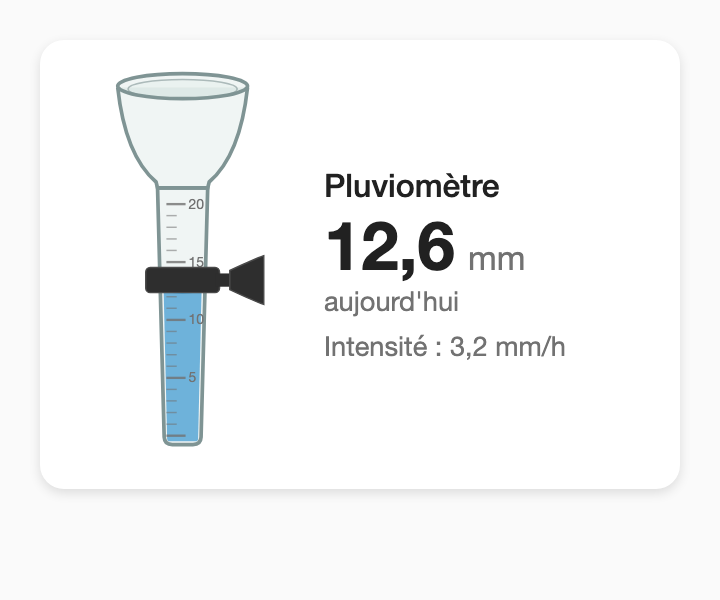
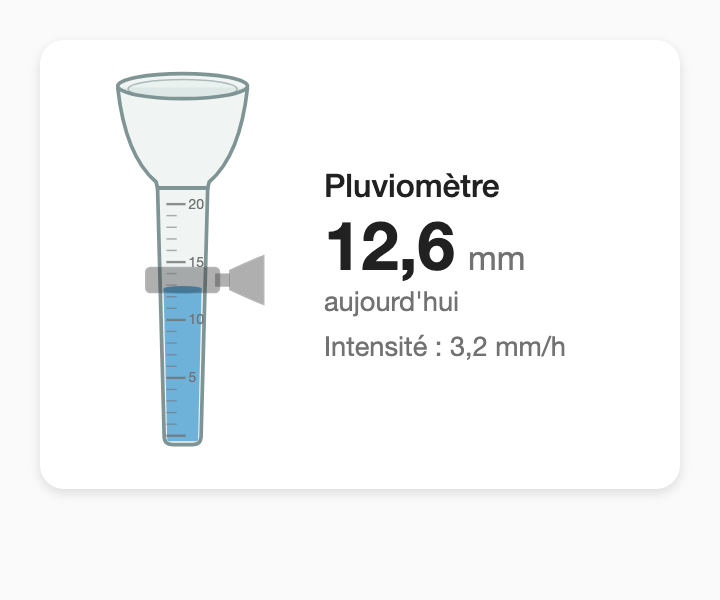
feat: semi-transparent bracket (show_bracket option), daily-max label, one-click daily total helper creation in editor

Changed region(s): [[0.1833, 0.42, 0.3667, 0.51]]

diff --git a/dist/pluviometer-card.js b/dist/pluviometer-card.js
@@ -9,25 +9,48 @@ console.info(
 const PV_LANGNAMES = { en: "English", fr: "Français", de: "Deutsch", es: "Español", it: "Italiano", nl: "Nederlands" };
 
 const PV_T = {
-  en: { entity: "Rain sensor", name: "Name", label: "Subtitle", max: "Gauge scale (max value)", decimals: "Decimals",
+  en: { entity: "Rain sensor", name: "Name", label: "Subtitle", max: "Daily precipitation maximum (full gauge)", decimals: "Decimals",
     color: "Water color (hex)", secondary: "Secondary entity (e.g. rain rate)", language: "Language", auto: "Auto",
-    unavailable: "Unavailable" },
-  fr: { entity: "Capteur de pluie", name: "Nom", label: "Sous-titre", max: "Échelle de la jauge (valeur max)", decimals: "Décimales",
+    unavailable: "Unavailable", bracket: "Show mounting bracket",
+    notCumul: "This sensor does not look like a daily total.", createBtn: "Create the daily total sensor",
+    creating: "Creating…", created: "Created and selected: ", createError: "Creation failed: ",
+    dailySuffix: "daily total", totalSuffix: "total" },
+  fr: { entity: "Capteur de pluie", name: "Nom", label: "Sous-titre", max: "Maximum de précipitations par jour (jauge pleine)", decimals: "Décimales",
     color: "Couleur de l'eau (hex)", secondary: "Entité secondaire (ex. intensité)", language: "Langue", auto: "Auto",
-    unavailable: "Indisponible" },
-  de: { entity: "Regensensor", name: "Name", label: "Untertitel", max: "Skala (Maximalwert)", decimals: "Dezimalstellen",
+    unavailable: "Indisponible", bracket: "Afficher le collier de fixation",
+    notCumul: "Ce capteur ne semble pas être un cumul journalier.", createBtn: "Créer le capteur de cumul journalier",
+    creating: "Création…", created: "Créé et sélectionné : ", createError: "Échec de la création : ",
+    dailySuffix: "cumul du jour", totalSuffix: "total" },
+  de: { entity: "Regensensor", name: "Name", label: "Untertitel", max: "Tagesmaximum Niederschlag (volle Skala)", decimals: "Dezimalstellen",
     color: "Wasserfarbe (Hex)", secondary: "Sekundäre Entität (z. B. Regenrate)", language: "Sprache", auto: "Auto",
-    unavailable: "Nicht verfügbar" },
-  es: { entity: "Sensor de lluvia", name: "Nombre", label: "Subtítulo", max: "Escala (valor máximo)", decimals: "Decimales",
+    unavailable: "Nicht verfügbar", bracket: "Halterung anzeigen",
+    notCumul: "Dieser Sensor scheint keine Tagessumme zu sein.", createBtn: "Tagessummen-Sensor erstellen",
+    creating: "Wird erstellt…", created: "Erstellt und ausgewählt: ", createError: "Fehlgeschlagen: ",
+    dailySuffix: "Tagessumme", totalSuffix: "gesamt" },
+  es: { entity: "Sensor de lluvia", name: "Nombre", label: "Subtítulo", max: "Máximo diario de precipitación (escala completa)", decimals: "Decimales",
     color: "Color del agua (hex)", secondary: "Entidad secundaria (p. ej. intensidad)", language: "Idioma", auto: "Auto",
-    unavailable: "No disponible" },
-  it: { entity: "Sensore pioggia", name: "Nome", label: "Sottotitolo", max: "Scala (valore massimo)", decimals: "Decimali",
+    unavailable: "No disponible", bracket: "Mostrar el soporte",
+    notCumul: "Este sensor no parece un total diario.", createBtn: "Crear el sensor de total diario",
+    creating: "Creando…", created: "Creado y seleccionado: ", createError: "Error al crear: ",
+    dailySuffix: "total diario", totalSuffix: "total" },
+  it: { entity: "Sensore pioggia", name: "Nome", label: "Sottotitolo", max: "Massimo giornaliero di pioggia (scala piena)", decimals: "Decimali",
     color: "Colore dell'acqua (hex)", secondary: "Entità secondaria (es. intensità)", language: "Lingua", auto: "Auto",
-    unavailable: "Non disponibile" },
-  nl: { entity: "Regensensor", name: "Naam", label: "Ondertitel", max: "Schaal (maximumwaarde)", decimals: "Decimalen",
+    unavailable: "Non disponibile", bracket: "Mostra la staffa",
+    notCumul: "Questo sensore non sembra un totale giornaliero.", createBtn: "Crea il sensore del totale giornaliero",
+    creating: "Creazione…", created: "Creato e selezionato: ", createError: "Creazione fallita: ",
+    dailySuffix: "totale giornaliero", totalSuffix: "totale" },
+  nl: { entity: "Regensensor", name: "Naam", label: "Ondertitel", max: "Dagelijks neerslagmaximum (volle schaal)", decimals: "Decimalen",
     color: "Waterkleur (hex)", secondary: "Secundaire entiteit (bijv. regenintensiteit)", language: "Taal", auto: "Auto",
-    unavailable: "Niet beschikbaar" },
+    unavailable: "Niet beschikbaar", bracket: "Beugel tonen",
+    notCumul: "Deze sensor lijkt geen dagtotaal te zijn.", createBtn: "Dagtotaal-sensor aanmaken",
+    creating: "Aanmaken…", created: "Aangemaakt en geselecteerd: ", createError: "Aanmaken mislukt: ",
+    dailySuffix: "dagtotaal", totalSuffix: "totaal" },
 };
+
+function pvSlugify(s) {
+  return String(s).normalize("NFD").replace(/[\u0300-\u036f]/g, "")
+    .toLowerCase().replace(/[^a-z0-9]+/g, "_").replace(/^_+|_+$/g, "");
+}
 
 function pvLangCode(hass, config) {
   const l = (config && config.language) || (hass && (hass.locale ? hass.locale.language : hass.language)) || "en";
@@ -119,8 +142,8 @@ class PluviometerCard extends HTMLElement {
         .pv-glass { fill: rgba(150, 185, 178, 0.14); stroke: var(--pv-outline-color, #7f9494); stroke-width: 2.5; }
         .pv-glass-inner { fill: rgba(150, 185, 178, 0.10); stroke: var(--pv-outline-color, #7f9494); stroke-width: 1; opacity: 0.6; }
         .pv-water { transition: transform 0.9s cubic-bezier(0.4, 0, 0.2, 1); }
-        .pv-bracket { fill: var(--pv-bracket-color, #2e2e2e); }
-        .pv-bracket-edge { fill: var(--pv-bracket-color, #2e2e2e); stroke: var(--pv-bracket-edge-color, #4a4a4a); stroke-width: 1; }
+        .pv-bracket { fill: var(--pv-bracket-color, #3a3a3a); opacity: 0.4; }
+        .pv-bracket-edge { fill: var(--pv-bracket-color, #3a3a3a); opacity: 0.4; stroke: var(--pv-bracket-edge-color, #4a4a4a); stroke-width: 1; }
         .pv-tick { stroke: var(--secondary-text-color); stroke-width: 1; opacity: 0.55; }
         .pv-tick-major { stroke-width: 1.6; opacity: 0.8; }
         .pv-tick-label { font-size: 9.5px; fill: var(--secondary-text-color); font-family: inherit; }
@@ -145,10 +168,11 @@ class PluviometerCard extends HTMLElement {
           <ellipse class="pv-glass-inner" cx="75" cy="17" rx="37" ry="6.5"/>
           <path class="pv-glass" d="M58 84 L62.5 253 Q62.7 258 68 258 L82 258 Q87.3 258 87.5 253 L92 84 Z" fill="none"/>
           <line x1="58" y1="84" x2="92" y2="84" stroke="var(--pv-outline-color, #7f9494)" stroke-width="2"/>
-          <g id="pv-ticks">${this._ticks()}</g>
+          ${c.show_bracket === false ? "" : `
           <rect class="pv-bracket-edge" x="50" y="138" width="50" height="17" rx="3"/>
           <rect class="pv-bracket" x="97" y="142" width="10" height="9"/>
-          <path class="pv-bracket-edge" d="M107 140 Q124 132 130 130 L130 163 Q124 161 107 153 Z"/>
+          <path class="pv-bracket-edge" d="M107 140 Q124 132 130 130 L130 163 Q124 161 107 153 Z"/>`}
+          <g id="pv-ticks">${this._ticks()}</g>
         </svg>
         </div>
         <div class="pv-info">
@@ -247,6 +271,7 @@ class PluviometerCardEditor extends HTMLElement {
         if (v.max_level != null && v.max_level !== "" && parseFloat(v.max_level) !== 40) out.max_level = parseFloat(v.max_level);
         if (v.decimals != null && v.decimals !== "" && parseInt(v.decimals, 10) !== 1) out.decimals = parseInt(v.decimals, 10);
         if (v.water_color && v.water_color !== "#3d9bd9") out.water_color = v.water_color;
+        if (v.show_bracket === false) out.show_bracket = false;
         if (v.secondary_entity) out.secondary_entity = v.secondary_entity;
         if (v.language) out.language = v.language;
         this._config = out;
@@ -264,6 +289,7 @@ class PluviometerCardEditor extends HTMLElement {
       max_level: c.max_level != null ? c.max_level : 40,
       decimals: c.decimals != null ? c.decimals : 1,
       water_color: c.water_color || "#3d9bd9",
+      show_bracket: c.show_bracket !== false,
       secondary_entity: c.secondary_entity || "",
       language: c.language || "",
     };
@@ -274,9 +300,89 @@ class PluviometerCardEditor extends HTMLElement {
       { name: "max_level", label: t.max, selector: { number: { mode: "box", step: "any", min: 0 } } },
       { name: "decimals", label: t.decimals, selector: { number: { mode: "box", step: 1, min: 0, max: 3 } } },
       { name: "water_color", label: t.color, selector: { text: {} } },
+      { name: "show_bracket", label: t.bracket, selector: { boolean: {} } },
       { name: "secondary_entity", label: t.secondary, selector: { entity: { domain: "sensor" } } },
       { name: "language", label: t.language, selector: { select: { mode: "dropdown", options: [{ value: "", label: t.auto }].concat(Object.keys(PV_LANGNAMES).map((l) => ({ value: l, label: PV_LANGNAMES[l] }))) } } },
     ];
+    this._renderHelperBox(t);
+  }
+
+  _renderHelperBox(t) {
+    if (!this._helperBox) {
+      this._helperBox = document.createElement("div");
+      this._helperBox.style.cssText = "margin-top:12px;padding:12px 14px;border:1px solid var(--divider-color);border-radius:8px;font-size:0.9em;color:var(--secondary-text-color);";
+      this.appendChild(this._helperBox);
+    }
+    const c = this._config;
+    const st = c.entity && this._hass.states[c.entity];
+    const status = this._helperStatus;
+    const needs = st && st.attributes.state_class !== "total_increasing";
+    if (!needs && !status) { this._helperBox.hidden = true; return; }
+    this._helperBox.hidden = false;
+    let html = "";
+    if (needs && !(status && status.ok)) html += `<div style="margin-bottom:8px;">💧 ${t.notCumul}</div>`;
+    if (status) {
+      html += `<div style="margin-bottom:8px;${status.ok ? "color:var(--success-color, #0f9d58);" : status.busy ? "" : "color:var(--error-color, #db4437);"}">${status.msg}</div>`;
+    }
+    if (needs && !(status && (status.busy || status.ok))) {
+      html += `<button id="pv-create-daily" style="cursor:pointer;padding:8px 14px;border:none;border-radius:6px;background:var(--primary-color);color:var(--text-primary-color, #fff);font:inherit;">${t.createBtn}</button>`;
+    }
+    this._helperBox.innerHTML = html;
+    const btn = this._helperBox.querySelector("#pv-create-daily");
+    if (btn) btn.addEventListener("click", () => this._createDaily());
+  }
+
+  async _createDaily() {
+    const c = this._config;
+    const t = pvT(this._hass, c);
+    const st = this._hass.states[c.entity];
+    const base = (st && st.attributes.friendly_name) || c.entity.split(".")[1];
+    this._helperStatus = { busy: true, msg: t.creating };
+    this._renderHelperBox(t);
+    try {
+      let source = c.entity;
+      const unit = (st && st.attributes.unit_of_measurement) || "";
+      if (/\/h$/i.test(unit)) {
+        const nameTotal = base + " " + t.totalSuffix;
+        await this._flowCreate("integration", {
+          name: nameTotal, source: source, method: "left", round: 2, unit_prefix: "none", unit_time: "h",
+        });
+        source = "sensor." + pvSlugify(nameTotal);
+        await new Promise((r) => setTimeout(r, 2500));
+      }
+      const nameDaily = base + " " + t.dailySuffix;
+      await this._flowCreate("utility_meter", {
+        name: nameDaily, source: source, cycle: "daily", offset: 0,
+        net_consumption: false, delta_values: false, periodically_resetting: true, tariffs: [],
+      });
+      const newId = "sensor." + pvSlugify(nameDaily);
+      this._helperStatus = { busy: false, ok: true, msg: t.created + newId };
+      this._config = { ...this._config, entity: newId };
+      this._render();
+      this.dispatchEvent(new CustomEvent("config-changed", { detail: { config: this._config }, bubbles: true, composed: true }));
+    } catch (e) {
+      this._helperStatus = { busy: false, msg: t.createError + (e && e.message ? e.message : e) };
+      this._renderHelperBox(t);
+    }
+  }
+
+  async _flowCreate(handler, values) {
+    const flow = await this._hass.callApi("POST", "config/config_entries/flow", {
+      handler: handler, show_advanced_options: true,
+    });
+    const data = {};
+    for (const f of flow.data_schema || []) {
+      if (values[f.name] !== undefined) data[f.name] = values[f.name];
+      else if (f.default !== undefined) data[f.name] = f.default;
+    }
+    const res = await this._hass.callApi("POST", "config/config_entries/flow/" + flow.flow_id, data);
+    if (res.type === "form" && res.errors && Object.keys(res.errors).length) {
+      throw new Error(handler + ": " + JSON.stringify(res.errors));
+    }
+    if (res.type !== "create_entry") {
+      throw new Error(handler + ": unexpected flow step (" + (res.step_id || res.type) + ")");
+    }
+    return res;
   }
 }
 

diff --git a/README.fr.md b/README.fr.md
@@ -14,8 +14,10 @@ capteur de précipitations (Netatmo, intégrations météo, DIY…), en mm ou en
 
 ## Fonctionnalités
 
-- Silhouette fidèle : entonnoir évasé, tube gradué, collier noir, niveau d'eau animé.
-- **Graduations automatiques** : ticks et labels s'adaptent à l'échelle choisie (`max_level`).
+- Silhouette fidèle : entonnoir évasé, tube gradué, collier de fixation, niveau d'eau animé.
+- **Graduations automatiques** : ticks et labels s'adaptent à l'échelle choisie (`max_level` = maximum par jour).
+- Collier semi-transparent pour laisser les graduations lisibles — ou masquable avec `show_bracket: false`.
+- **Pas de capteur de cumul journalier ? Un clic suffit** : si le capteur choisi n'est pas un cumul, l'éditeur propose un bouton qui crée les helpers nécessaires (compteur `utility_meter` à cycle journalier — précédé d'un capteur `integration` si la source est une intensité en mm/h).
 - Unité lue sur l'entité (mm, in…), décimales et couleur de l'eau configurables.
 - Sous-titre optionnel (ex. « aujourd'hui ») et entité secondaire (ex. intensité mm/h).
 - Éditeur natif HA (sélecteur d'entité) + YAML complet. Un tap ouvre le more-info.
@@ -46,9 +48,10 @@ secondary_entity: sensor.pluviometre_precipitation   # optionnel, ex. intensité
 | `entity` | **requis** | Tout capteur numérique (précipitations recommandé) |
 | `name` | friendly name | Titre affiché à côté de la jauge |
 | `label` | — | Sous-titre sous la valeur (ex. « aujourd'hui ») |
-| `max_level` | `40` | Valeur jauge pleine, dans l'unité de l'entité |
+| `max_level` | `40` | Maximum de précipitations par jour (jauge pleine), dans l'unité de l'entité |
 | `decimals` | `1` | Décimales de la valeur affichée |
 | `water_color` | `#3d9bd9` | Couleur de l'eau |
+| `show_bracket` | `true` | Afficher le collier de fixation (semi-transparent) |
 | `unit` | unité de l'entité | Forçage de l'unité |
 | `secondary_entity` | — | Capteur supplémentaire affiché sous la valeur |
 | `language` | auto | `en`, `fr`, `de`, `es`, `it`, `nl` |

diff --git a/README.md b/README.md
@@ -22,8 +22,10 @@ bracket — and fills it with water as the rain falls. Works with any precipitat
 
 ## Features
 
-- Faithful rain-gauge look: flared funnel, graduated tube, black mounting bracket, animated water level.
-- **Auto graduations**: tick marks and labels adapt to the scale you choose (`max_level`).
+- Faithful rain-gauge look: flared funnel, graduated tube, mounting bracket, animated water level.
+- **Auto graduations**: tick marks and labels adapt to the scale you choose (`max_level` = daily maximum).
+- Semi-transparent bracket so graduations stay readable — or hide it with `show_bracket: false`.
+- **No daily total sensor? One click fixes it**: if the selected sensor isn't a daily cumulative, the editor offers a button that creates the needed helpers for you (a daily utility meter — plus an integration sensor first when your source is a rate in mm/h).
 - Unit read from the entity (mm, in…), configurable decimals and water color.
 - Optional subtitle (e.g. "today") and secondary entity (e.g. rain rate mm/h).
 - Native HA editor (entity picker) + full YAML control. Tap opens more-info.
@@ -57,9 +59,10 @@ secondary_entity: sensor.rain_gauge_precipitation   # optional, e.g. rain rate
 | `entity` | **required** | Any numeric sensor (precipitation recommended) |
 | `name` | friendly name | Title shown next to the gauge |
 | `label` | — | Subtitle under the value (e.g. "today") |
-| `max_level` | `40` | Full-gauge value, in the entity's unit |
+| `max_level` | `40` | Daily precipitation maximum (full gauge), in the entity's unit |
 | `decimals` | `1` | Decimals for the displayed value |
 | `water_color` | `#3d9bd9` | Water fill color |
+| `show_bracket` | `true` | Show the mounting bracket (semi-transparent) |
 | `unit` | entity unit | Unit override |
 | `secondary_entity` | — | Extra sensor shown under the value |
 | `language` | auto | `en`, `fr`, `de`, `es`, `it`, `nl` |
